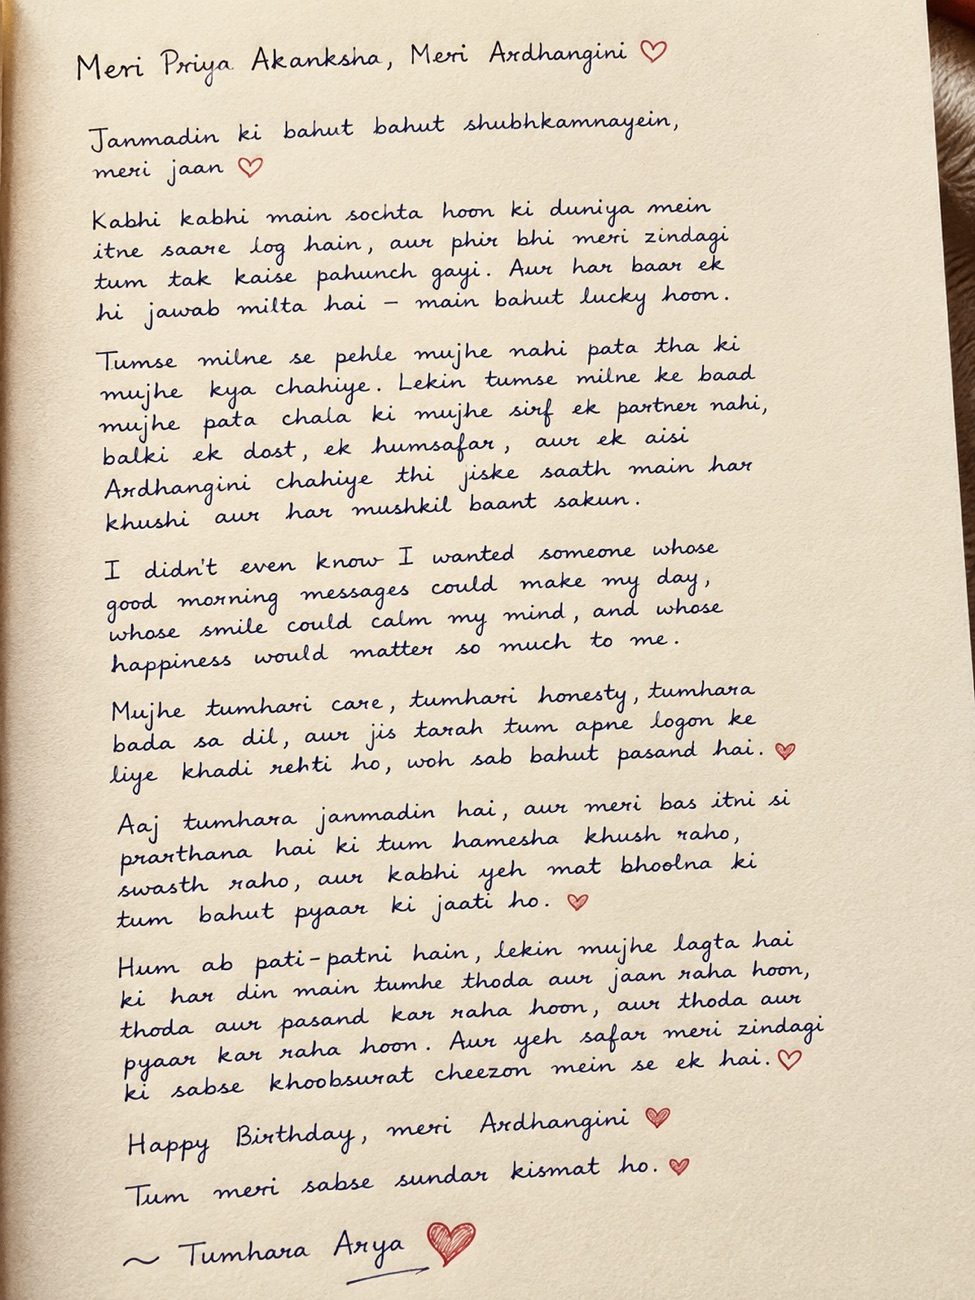
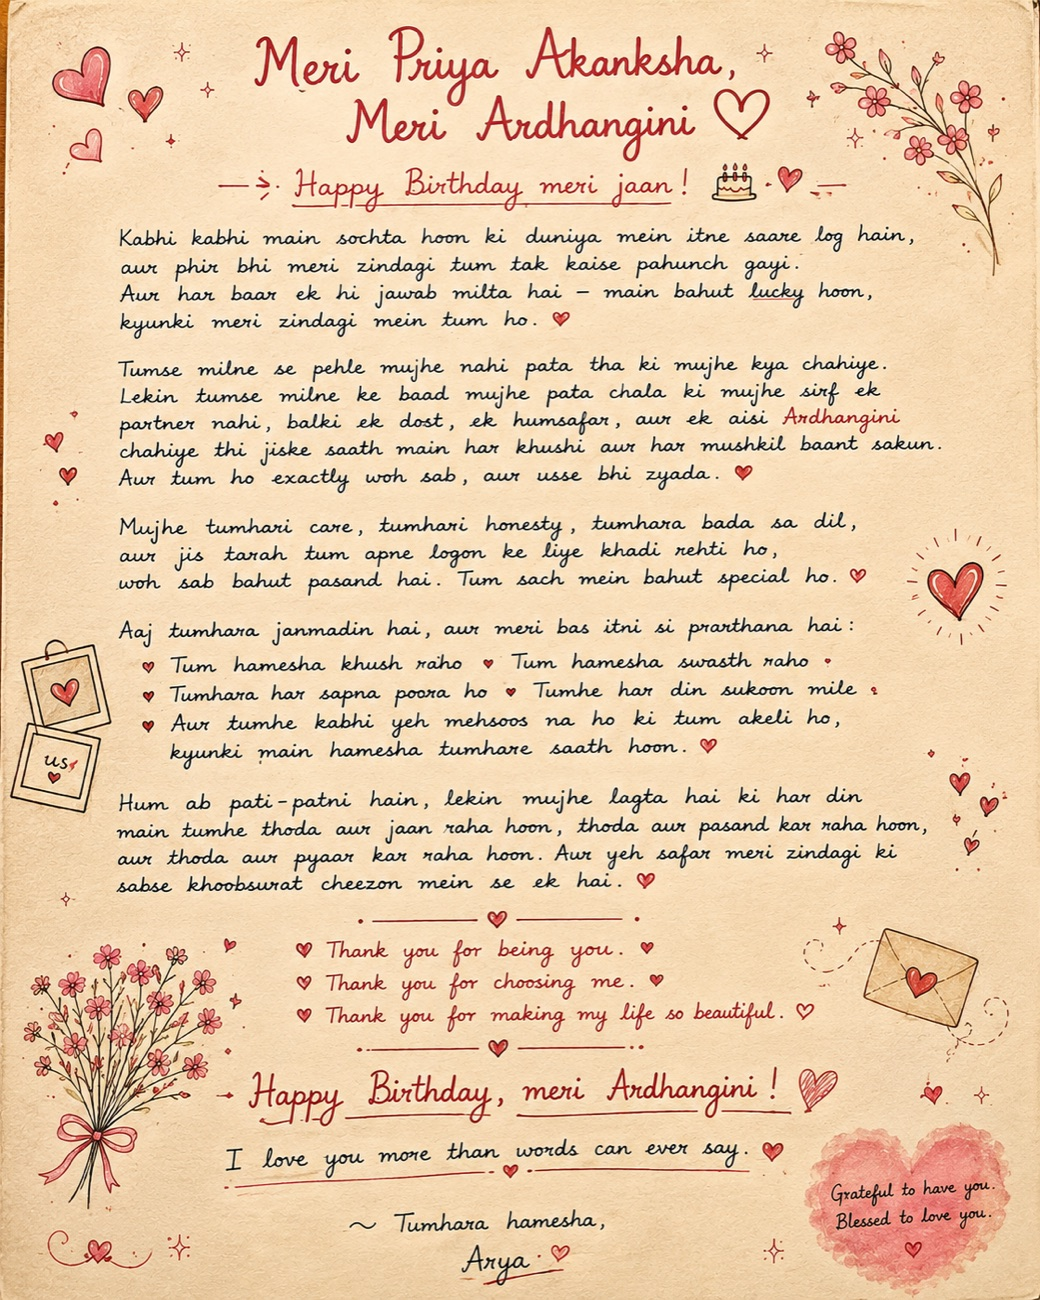
feat: photo-collage background + bigger handwritten letter
- Add a soft collage of all 47 photos as a fixed background (one composited
  360KB image), filling the empty margins. A brand veil keeps it readable:
  denser behind the content, lighter at the edges so the photos show through.
- Make the photos clearly visible: minimal blur, lighter veil, with cream text
  halos, a frosted backing behind the timeline, and a halo on the hero name so
  text stays legible over the sharper photos.
- Swap in the updated handwritten letter and display it big and readable
  in-page (~700px desktop, near full-width mobile), regenerated at higher res.

77 tests pass.

diff --git a/birthday/birthday.css b/birthday/birthday.css
@@ -41,19 +41,75 @@ body {
   position: relative;
   min-height: 100vh;
 }
-/* The gradient lives on a single fixed, composited layer instead of
-   background-attachment:fixed (which repaints on every scroll frame). */
+/* A soft collage of all our photos, fixed behind everything (one composited
+   image, so it's decoded once and composited as a single static layer). */
 body::before {
+  content: "";
+  position: fixed;
+  inset: 0;
+  z-index: -2;
+  pointer-events: none;
+  background: url("photos/collage.jpg") center center / cover no-repeat;
+  filter: blur(0.5px) saturate(1.05);
+  transform: scale(1.02); /* hide the blur's soft edges */
+}
+/* A brand-coloured veil over the photos: dense in the middle (behind the
+   content column) for readability, lighter at the edges so the photos show
+   through in the margins that used to look empty. */
+body::after {
   content: "";
   position: fixed;
   inset: 0;
   z-index: -1;
   pointer-events: none;
   background:
-    radial-gradient(circle at 15% 20%, rgba(255, 217, 184, 0.55) 0%, transparent 55%),
-    radial-gradient(circle at 85% 10%, rgba(230, 220, 255, 0.45) 0%, transparent 55%),
-    radial-gradient(circle at 50% 100%, rgba(255, 179, 193, 0.4) 0%, transparent 60%),
-    linear-gradient(180deg, #fff8ef 0%, #ffeede 35%, #ffe0e6 70%, #f5e9ff 100%);
+    radial-gradient(ellipse 88% 72% at 50% 40%,
+      rgba(255, 248, 239, 0.58) 0%,
+      rgba(255, 243, 236, 0.42) 42%,
+      rgba(255, 235, 240, 0.16) 74%,
+      rgba(248, 236, 250, 0.08) 100%),
+    linear-gradient(180deg,
+      rgba(255, 246, 236, 0.16) 0%,
+      rgba(255, 226, 232, 0.12) 60%,
+      rgba(245, 233, 255, 0.2) 100%);
+}
+
+/* The photo background is visible now, so give the open text (the bits not on a
+   card) a soft cream halo to keep it readable over the photos. */
+.bday-hero__eyebrow,
+.bday-hero__sub,
+.bday-hero__from,
+.bday-section__head p,
+.bday-section__hint,
+.bday-close__sub,
+.bday-daystogether,
+.bday-pop__count,
+.bday-story__date,
+.bday-story__item p {
+  text-shadow: 0 0 4px #fff7ee, 0 0 8px #fff7ee, 0 1px 2px #fff7ee;
+}
+.bday-section__head h2,
+.bday-hero__title {
+  text-shadow: 0 0 10px rgba(255, 248, 238, 0.88), 0 2px 14px rgba(255, 248, 238, 0.7);
+}
+/* The hero name is gradient (clipped) text, so a drop-shadow halo keeps the
+   centerpiece crisp over the photos where a text-shadow reads faint. */
+.bday-hero__name {
+  filter: drop-shadow(0 1px 2px rgba(255, 248, 238, 0.95))
+    drop-shadow(0 0 7px rgba(255, 248, 238, 0.8));
+}
+
+/* The timeline is the one dense block of small text on the open background —
+   give it a soft frosted backing so it stays readable over the photos. */
+.bday-story::after {
+  content: "";
+  position: absolute;
+  inset: -1.25rem -1.5rem;
+  z-index: -1;
+  background: rgba(255, 247, 238, 0.78);
+  border-radius: 22px;
+  -webkit-backdrop-filter: blur(2px);
+  backdrop-filter: blur(2px);
 }
 
 img {
@@ -1724,11 +1780,11 @@ button {
   background: none;
   box-shadow: none;
   padding: 0;
-  max-width: 500px;
+  max-width: 760px;
 }
 .bday-letter--handonly::before { display: none; }
 .bday-letter--handonly .bday-letter__hand { margin: 0; }
-.bday-letter--handonly .bday-letter__hand img { max-width: 440px; }
+.bday-letter--handonly .bday-letter__hand img { max-width: 700px; }
 .bday-letter__handbtn {
   display: inline-block;
   max-width: 100%;

diff --git a/birthday/index.html b/birthday/index.html
@@ -40,7 +40,7 @@
       href="https://fonts.googleapis.com/css2?family=Dancing+Script:wght@400;600;700&family=Lora:ital,wght@0,400;0,600;1,400&family=Caveat:wght@400;600;700&display=swap"
       rel="stylesheet"
     />
-    <link rel="stylesheet" href="birthday.css?v=16" />
+    <link rel="stylesheet" href="birthday.css?v=23" />
     <link rel="stylesheet" href="../shared/shared.css" />
   </head>
   <body id="page-birthday" data-music-mood="birthday">
@@ -386,12 +386,12 @@
             >
               <img
                 id="bdayLetterImg"
-                src="photos/love-letter-card.jpg"
+                src="photos/love-letter-card.jpg?v=3"
                 alt="A handwritten birthday letter from Ashish to Akanksha"
                 loading="lazy"
                 decoding="async"
-                width="450"
-                height="600"
+                width="896"
+                height="1120"
               />
             </button>
             <figcaption>Tap to read it.</figcaption>
@@ -457,6 +457,6 @@
     </div>
 
     <script src="../shared/interactive.js"></script>
-    <script src="birthday.js?v=16"></script>
+    <script src="birthday.js?v=17"></script>
   </body>
 </html>

diff --git a/birthday/birthday.js b/birthday/birthday.js
@@ -1404,7 +1404,7 @@
     if (!btn || !img) return;
     // The card shows a small version; the lightbox opens the larger, legible one.
     btn.addEventListener("click", () => {
-      if (openLightbox) openLightbox(btn, "photos/love-letter.jpg", img.alt);
+      if (openLightbox) openLightbox(btn, "photos/love-letter.jpg?v=2", img.alt);
     });
   }
 
